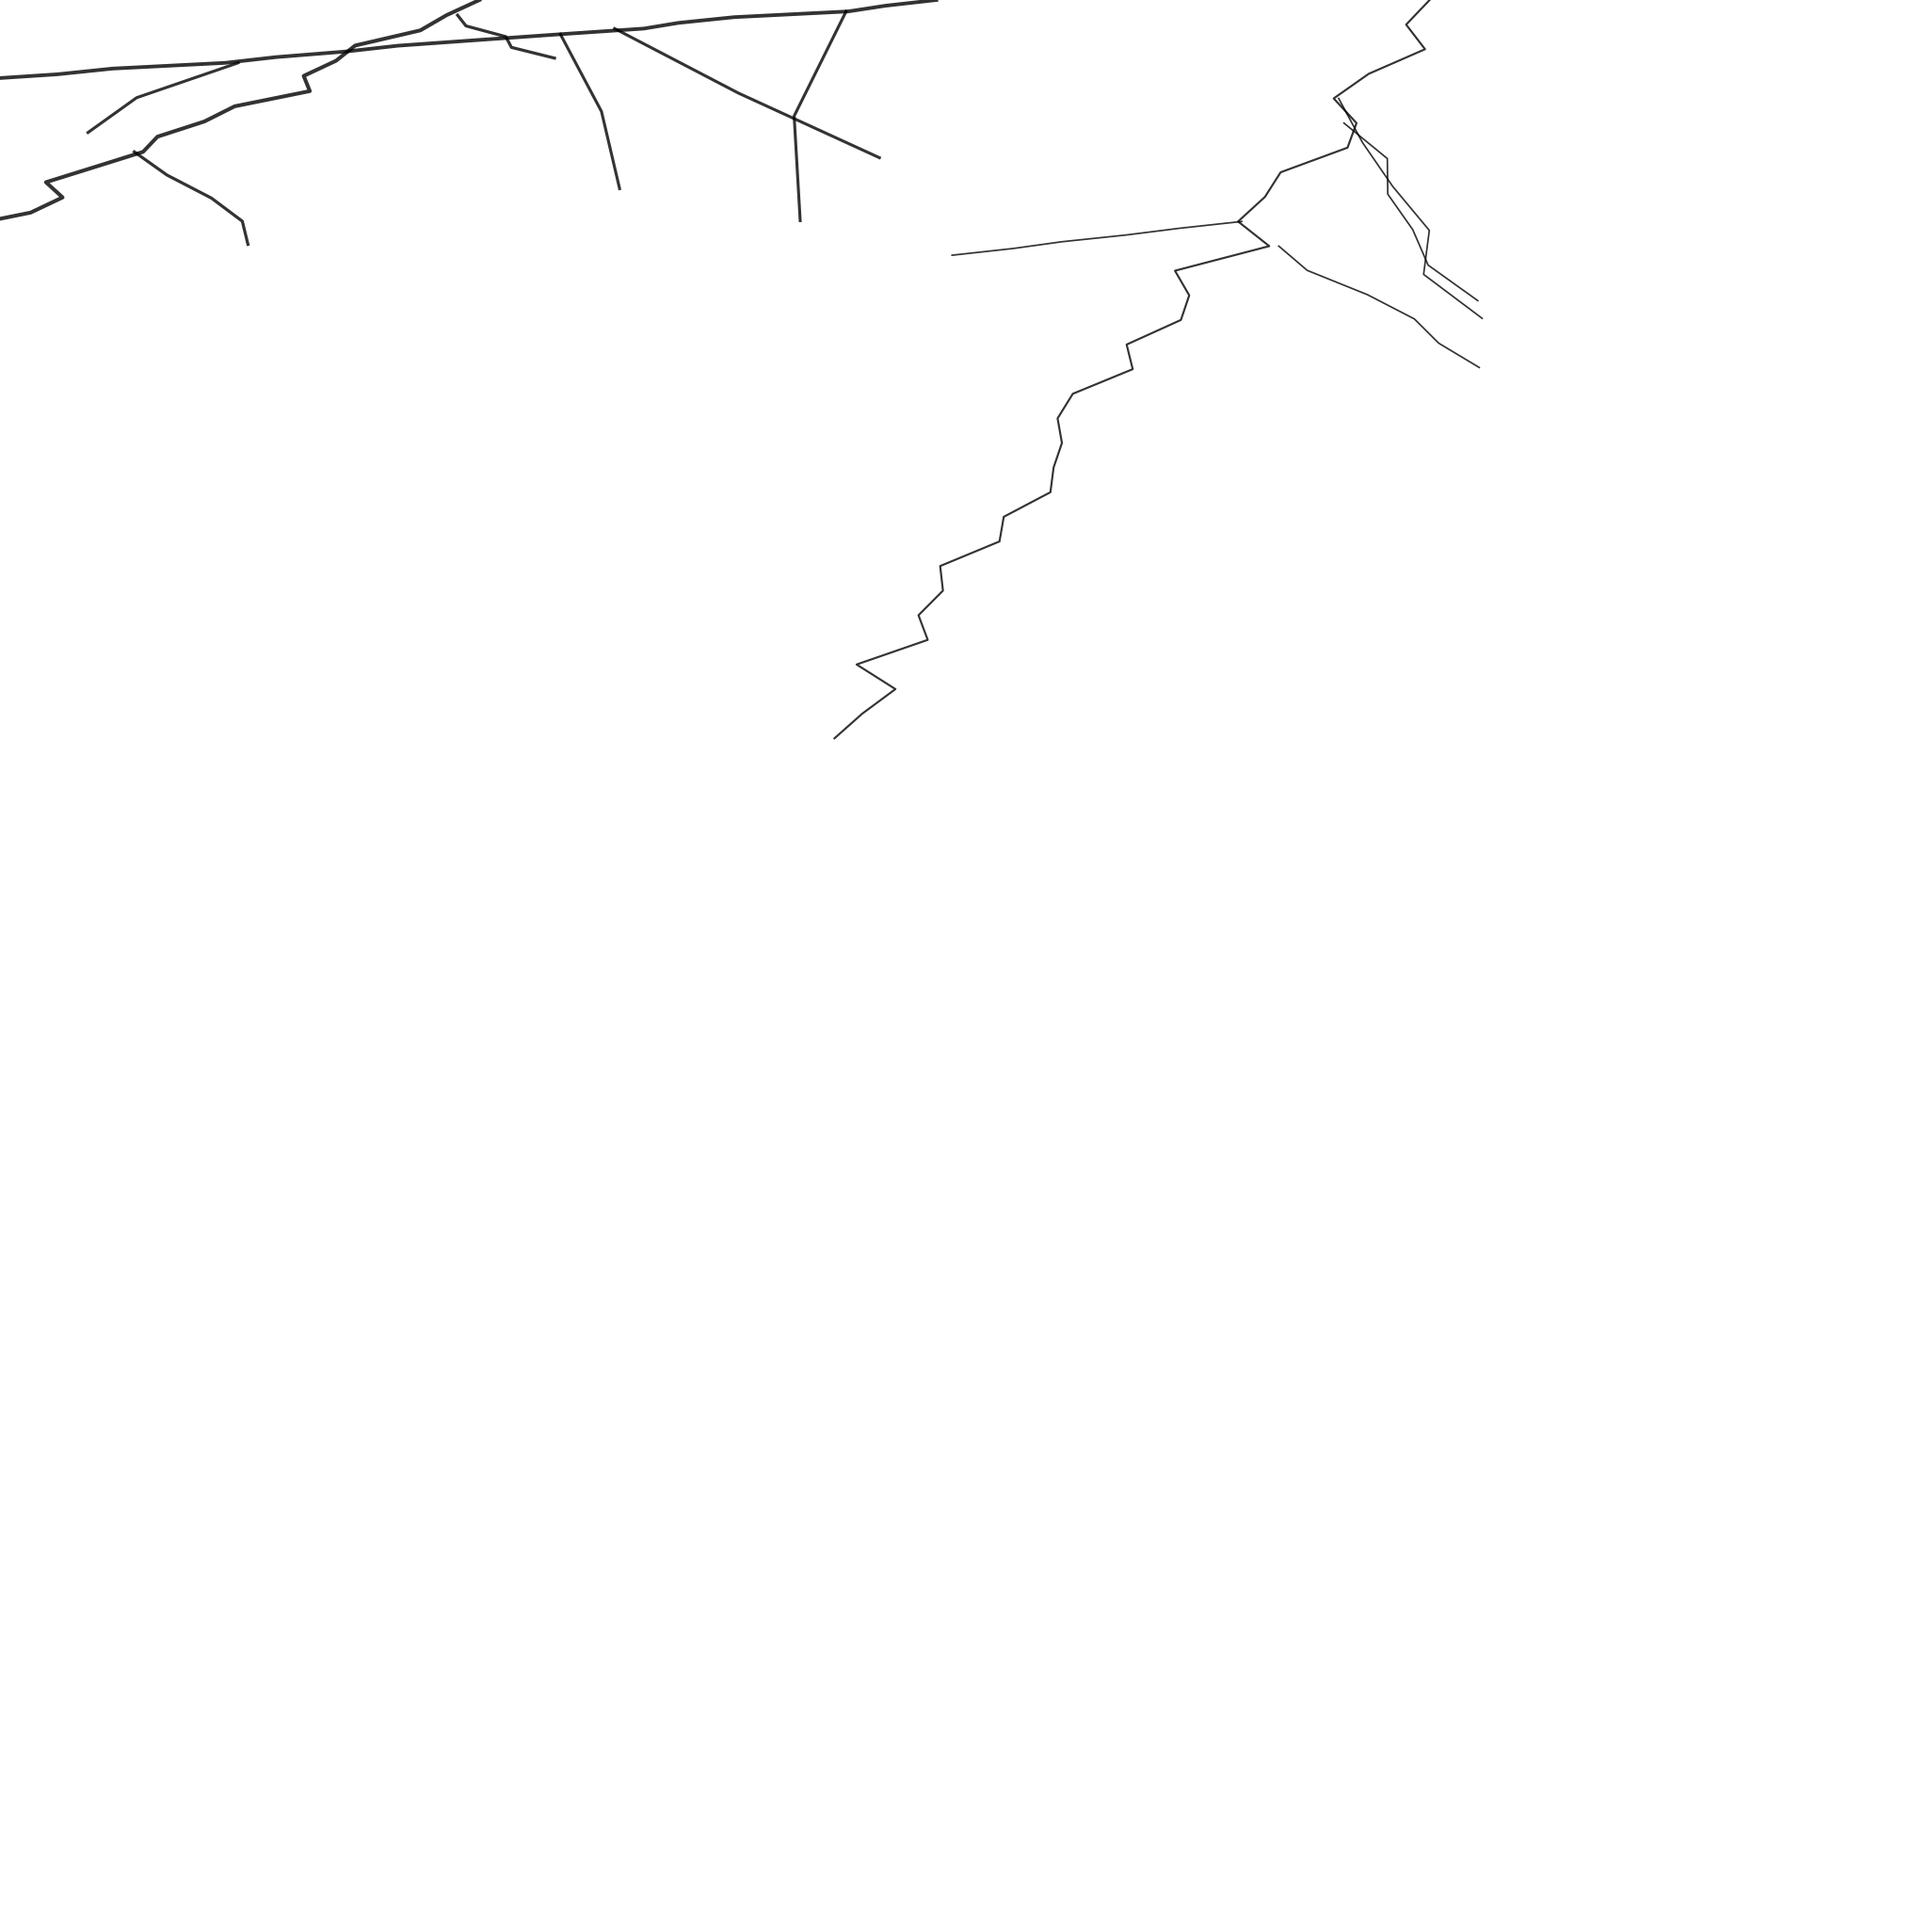
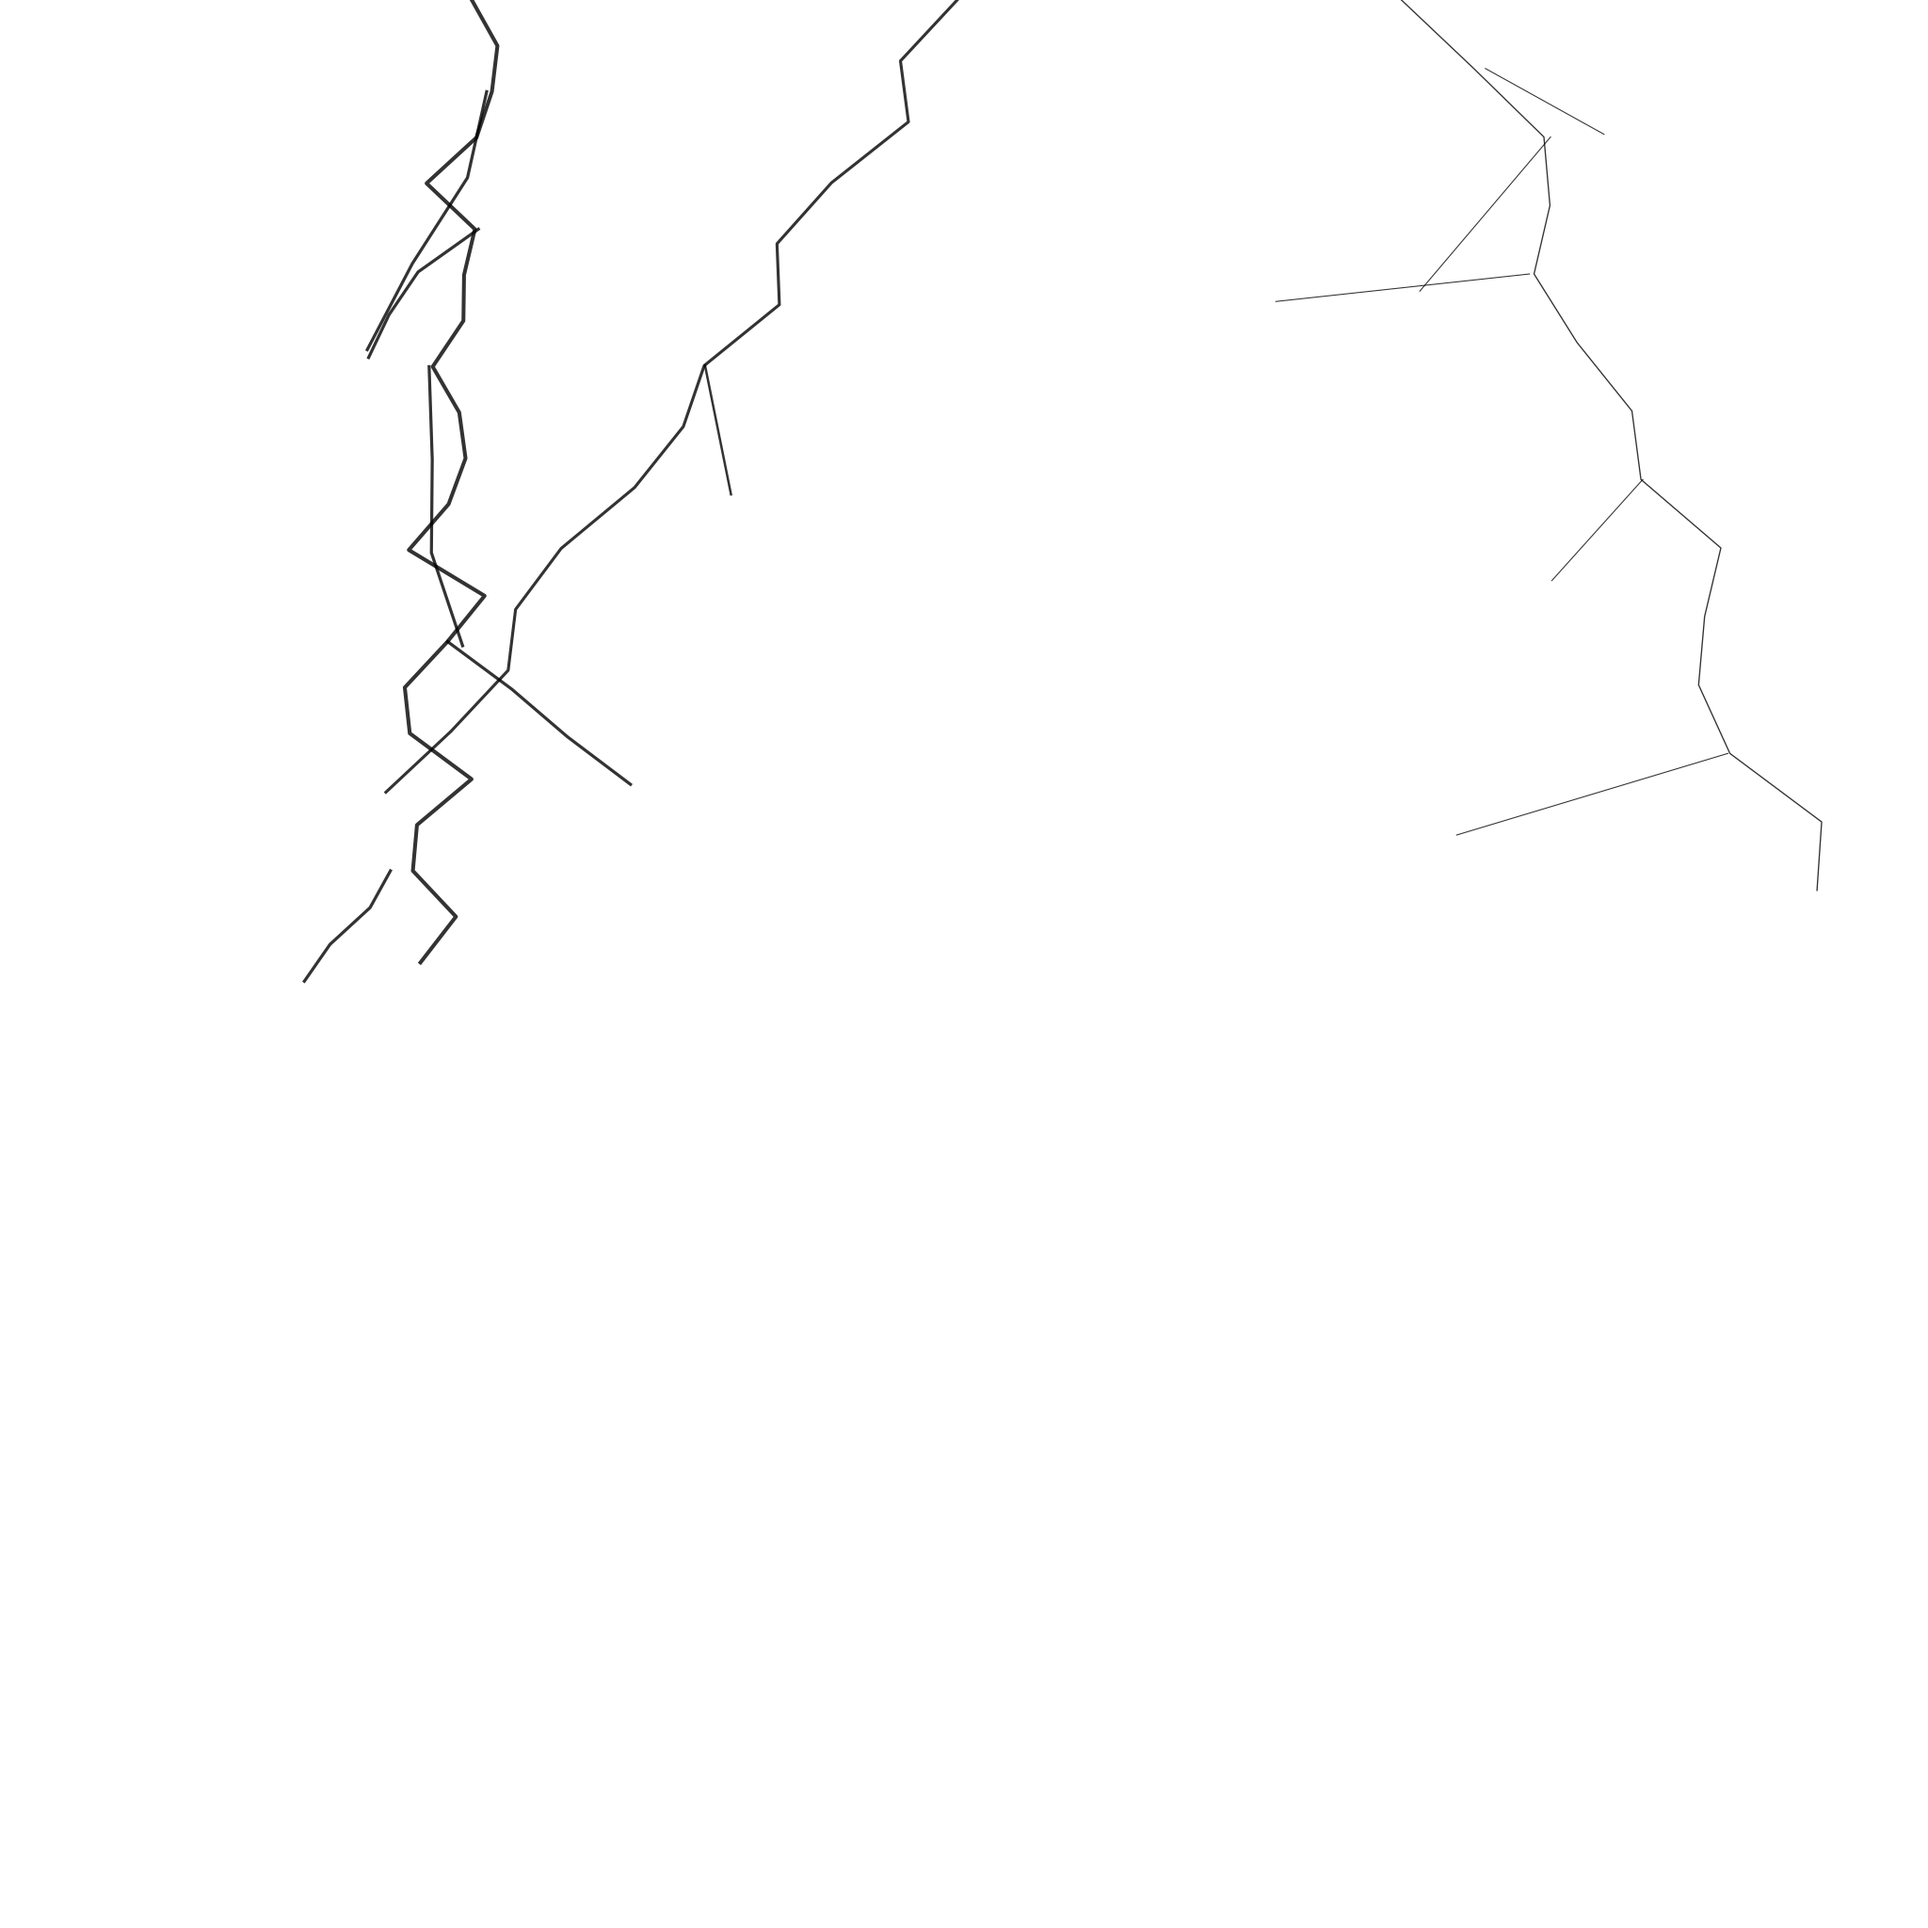
rebranding

diff --git a/scripts/SyntheticDataGenerator.py b/scripts/SyntheticDataGenerator.py
@@ -68,9 +68,9 @@ variation_counter = 0
 import numpy as np
 import matplotlib.pyplot as plt
 
-def draw_crack(ax, start_point, length=10, noise_level_range=(10, 50), 
-               num_points_range=(20, 41), min_bifurcations_range=(0, 4), 
-               max_bifurcations=3, line_width_range=(0.5, 3)):
+def draw_crack(ax, start_point, length=10, noise_level_range=(10, 30), 
+               num_points_range=(10, 40), min_bifurcations_range=(0, 4), 
+               max_bifurcations=5, line_width_range=(0.5, 4)):
     """
     Draws a single crack on the provided axis.
 
@@ -444,9 +444,9 @@ def run_variation(context):
     
     alternate_camera_parameters(context)
     
-    if variation_counter % 10 == 0:
-        generate_crack_image('Grietas/defect0.png')
-        change_texture(context)
+    
+    generate_crack_image('Grietas/defect0.png')
+    change_texture(context)
     
 
 def insert_mode_switcher_node(context,material):
